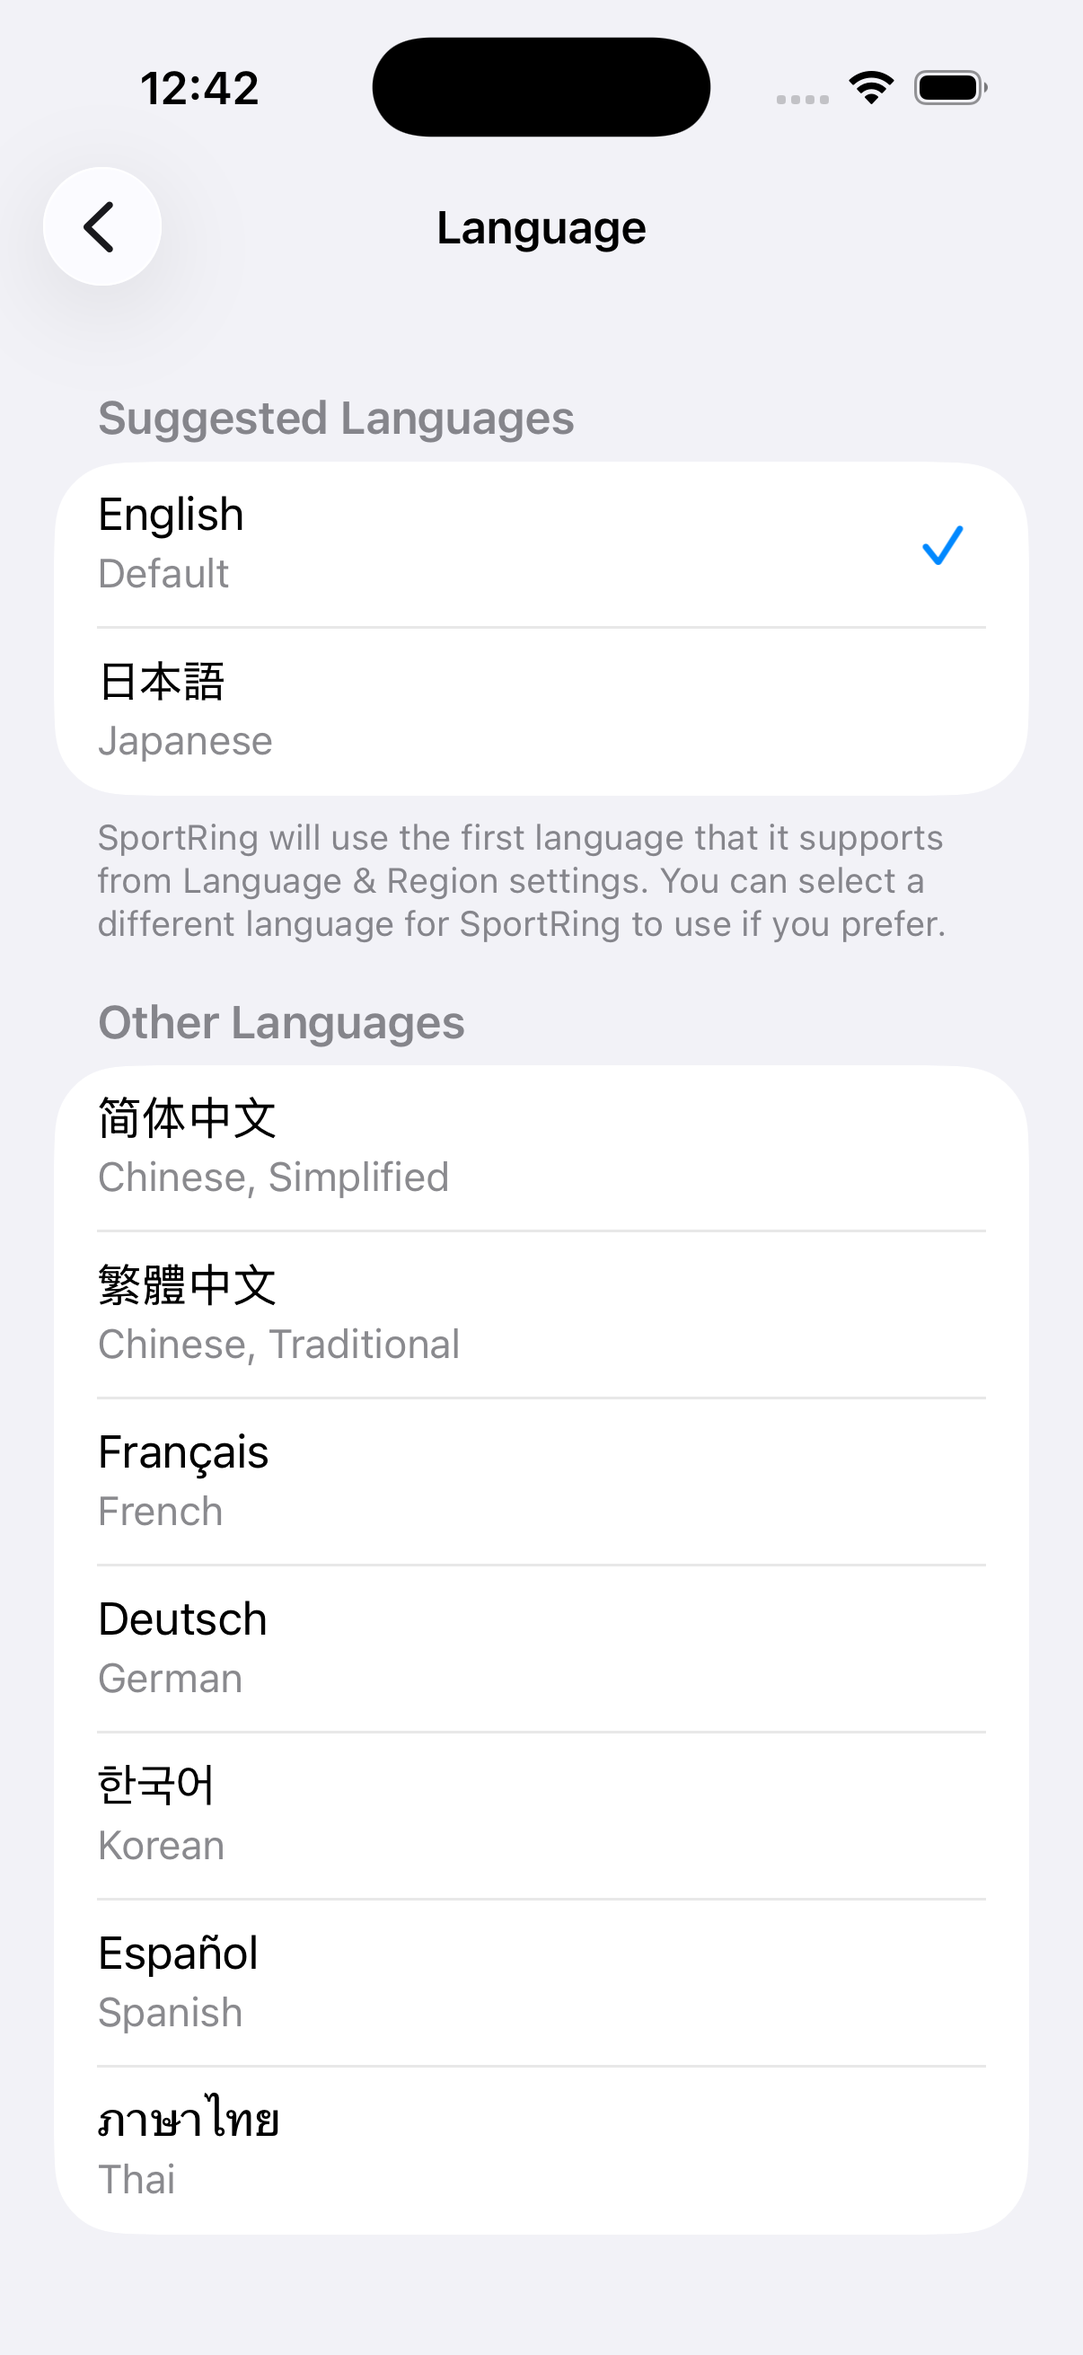
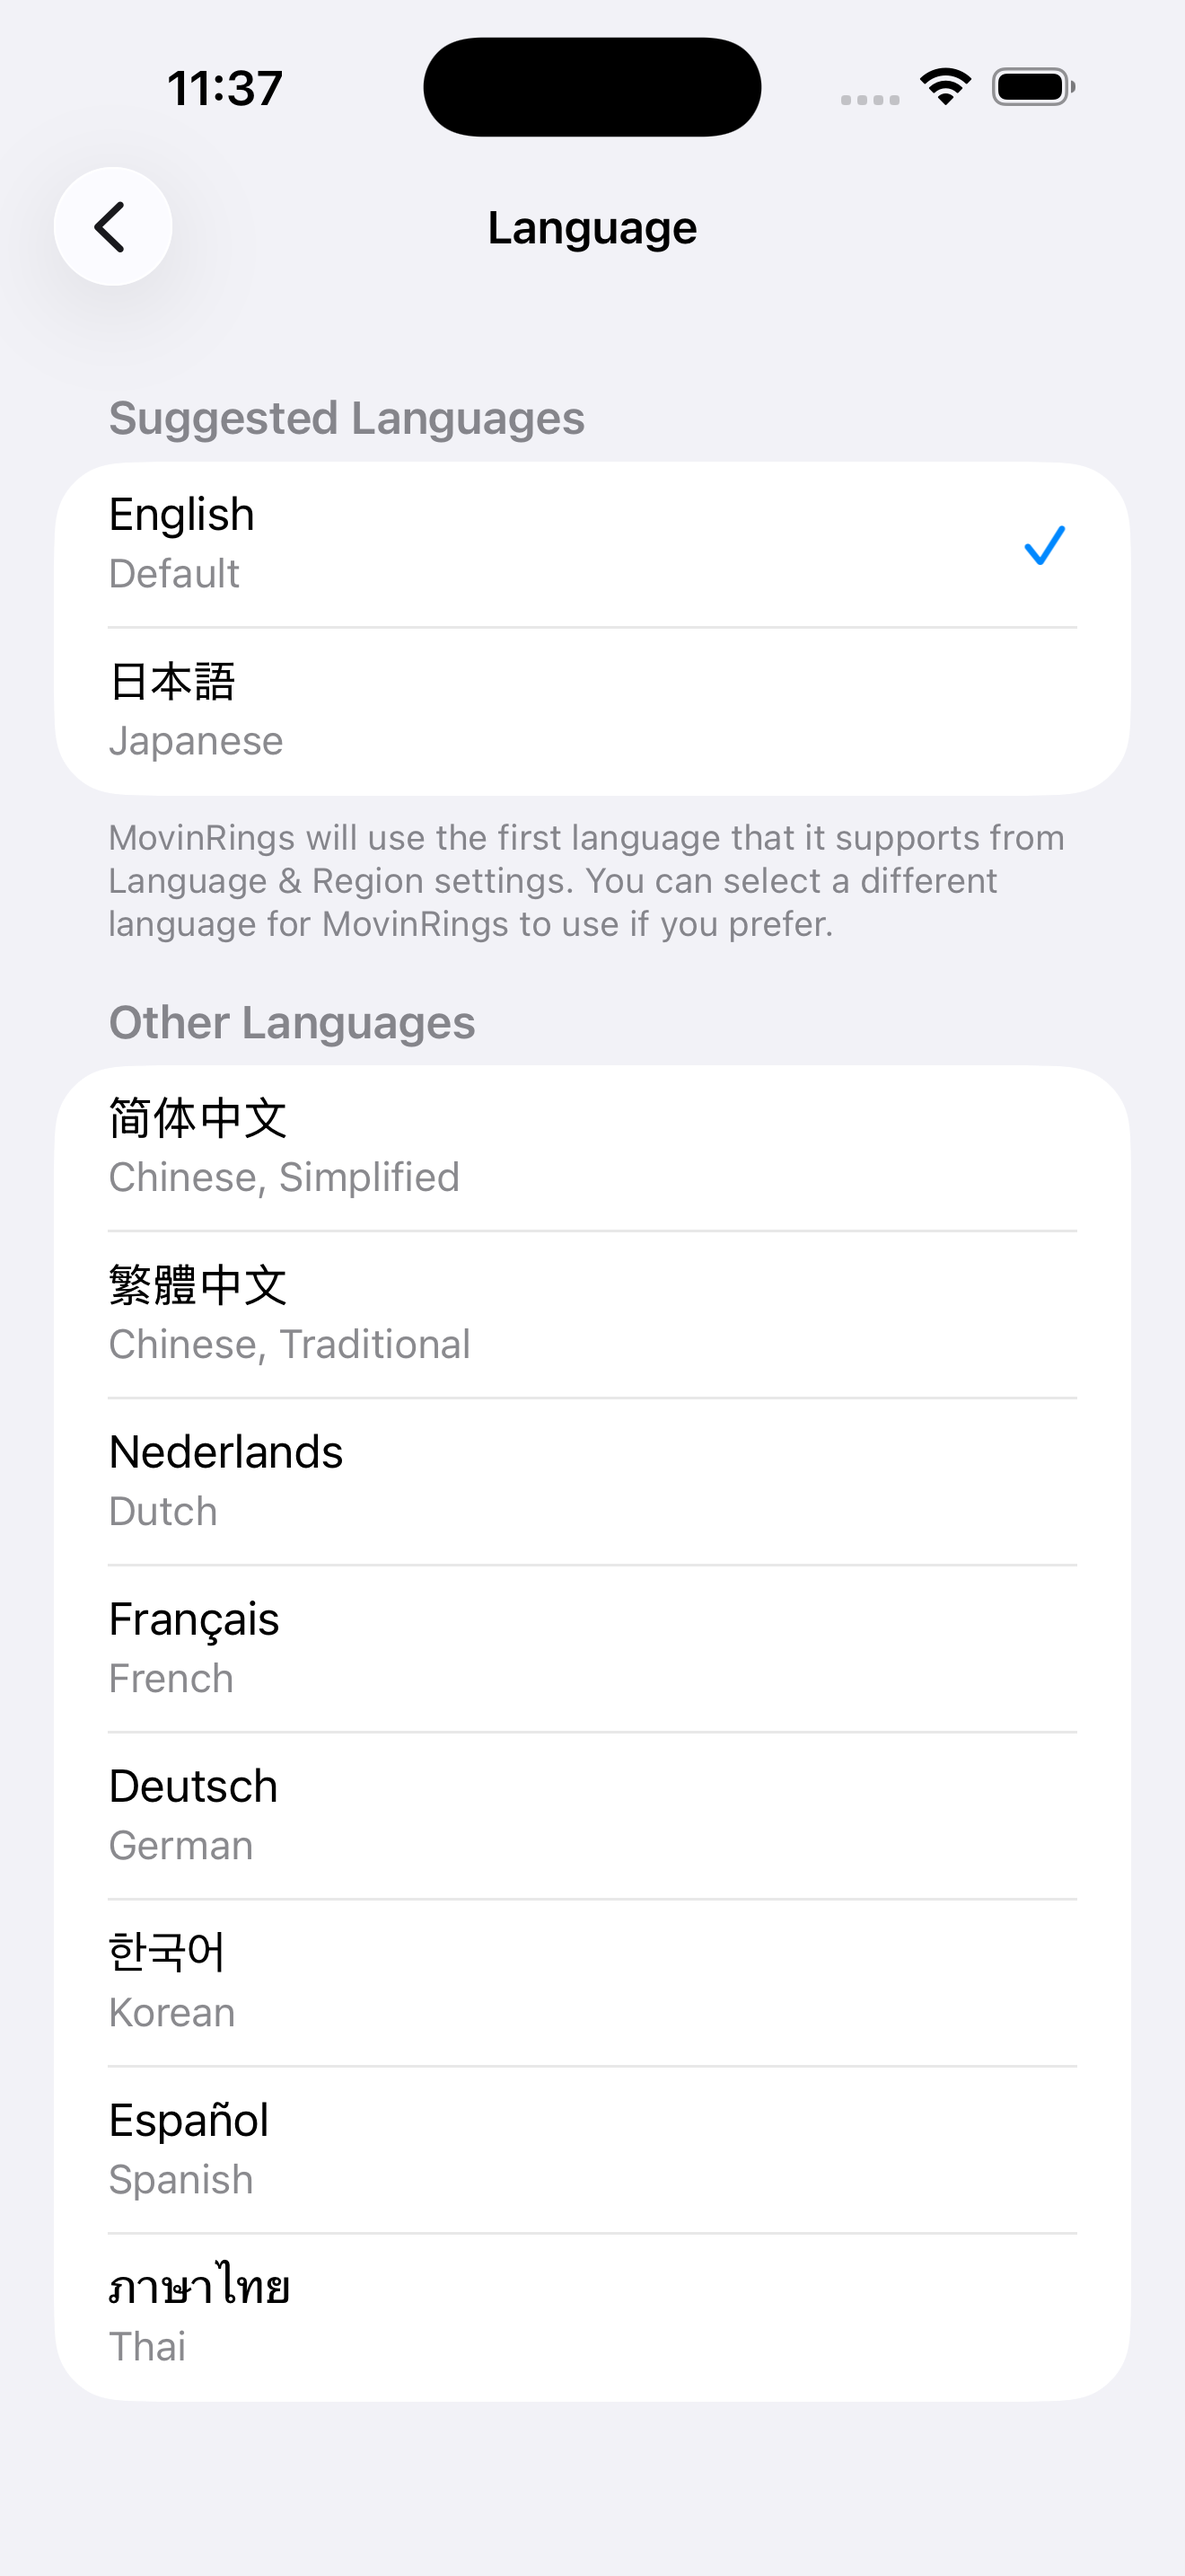
0726

diff --git a/ja/help.html b/ja/help.html
@@ -27,8 +27,8 @@
   A. はい。Watch単体でも動作し、目標距離・単位・リングカラーなどの設定や確認が可能です。</p>
   <p><strong>Q. iPhone と Apple Watch は連携しますか？</strong><br>
   A. はい。データと設定は自動的に同期されます。どちらのデバイスで設定を変更しても、もう一方にすぐ反映されます。</p>
-  <p><strong>Q. 「ウォーク＋ラン」のデータはどのように扱われますか？</strong><br>
-  A.「ウォーク＋ラン」の距離は、iPhone と Apple Watch が1日を通して検出した歩行・走行の推定距離の合計です。個別に記録したワークアウトとは別のデータとして扱われます。</p>
+  <p><strong>Q. 「ウォーキング＋ランニング」のデータはどのように扱われますか？</strong><br>
+  A.「ウォーキング＋ランニング」の距離は、iPhone と Apple Watch が1日を通して検出した歩行・走行の推定距離の合計です。個別に記録したワークアウトとは別のデータとして扱われます。</p>
   <p><strong>Q. データはどこに保存されますか？</strong><br>
   A. すべてのデータは Apple の HealthKit を通じてユーザーのデバイス内に安全に保存され、開発者や第三者に送信されることはありません。</p>
 
@@ -42,7 +42,7 @@
       設定 → MovinRings → ＜優先する言語＞ を選択します。</li>
 
   <li>使用したい言語を選ぶ<br>
-      英語、日本語、フランス語、ドイツ語、スペイン語、中国語（簡体字/繁体字）、韓国語、タイ語が選択できます。</li>
+      英語、日本語、フランス語、ドイツ語、スペイン語、オランダ語、中国語（簡体字/繁体字）、韓国語、タイ語が選択できます。</li>
 
   <li>ウィジェットの言語も変更したい場合<br>
       ウィジェットが言語変更に追従しない場合、Apple Watch を再起動すると反映される場合があります。</li>

diff --git a/help.html b/help.html
@@ -29,6 +29,8 @@ You can check your progress and change your goals, units, or ring color directly
   <p><strong>Q. Does it work with iPhone and Apple Watch?</strong><br>
   A. Yes. Your data and settings sync automatically.
 Any changes made on one device are instantly reflected on the other.</p>
+  <p><strong>Q. How is "Walking + Running" data handled?</strong><br>
+  A. "Walking + Running" distance is the estimated sum of walking and running distances detected by your iPhone and Apple Watch throughout the day. It is treated as separate data from workouts you record individually.</p>
   <p><strong>Q. How to change the app language?</strong><br>
   A. The app and widget language follow your iPhone’s language settings.  
   You can change the display language using the steps below.
@@ -39,7 +41,7 @@ Any changes made on one device are instantly reflected on the other.</p>
       Go to Settings → MovinRings → Preferred Language.</li>
 
   <li>Select your preferred language<br>
-      You can choose from English, Japanese, French, German, Spanish, Chinese (Simplified/Traditional), Korean, and Thai.</li>
+      You can choose from English, Japanese, French, German, Spanish, Dutch, Chinese (Simplified/Traditional), Korean, and Thai.</li>
 
   <li>If you also want the widget language to update<br>
       If the widget does not switch languages, restarting your Apple Watch may apply the change.</li>

diff --git a/index.html b/index.html
@@ -71,19 +71,19 @@
     <!-- ② 3-Second Understanding Section (Quick Features) -->
     <section class="quick-features reveal">
       <div class="q-feature">
-        <h3>Sport-specific<br>rings</h3>
+        <h3>Sport-specific rings</h3>
         <p>Visualize Walking, Running, Cycling, Swimming, and more with beautiful rings</p>
       </div>
       <div class="q-feature">
-        <h3>Watch<br>complications</h3>
+        <h3>Apple Watch complications</h3>
         <p>Check your progress right on your watch face with multiple rich complication types</p>
       </div>
       <div class="q-feature">
-        <h3>iOS<br>Widgets</h3>
+        <h3>iOS widgets</h3>
         <p>Track your daily achievements from your Home and Lock Screen with iOS widgets</p>
       </div>
       <div class="q-feature">
-        <h3>Multi-language<br>Support</h3>
+        <h3>Multilingual support</h3>
         <p>The app automatically matches your system settings for a seamless look</p>
       </div>
     </section>

diff --git a/movinrings/ja/index.html b/movinrings/ja/index.html
@@ -79,7 +79,8 @@
           <li>ワークアウトごとの目標距離やkm/mi単位を一度に設定</li>
           <li>チェックボックスで表示・非表示を切り替え</li>
           <li>右側のハンドルをドラッグして、表示順を簡単に並べ替え</li>
-          <li>表示言語（英語、日本語など8言語）に対応</li>
+          <li>表示言語（英語、日本語など9言語）に対応</li>
+          <li class="no-bullet"><span class="new-badge">NEW</span>オランダ語に対応</li>
         </ul>
       </div>
       <div class="detail-images">

diff --git a/movinrings/index.html b/movinrings/index.html
@@ -79,7 +79,8 @@
           <li>Set target distances and km/mi preferences for each activity</li>
           <li>Toggle activities on or off with simple checkboxes</li>
           <li>Easily reorder activities by dragging the handle on the right</li>
-          <li>Supports 8 display languages (English, Japanese, etc.)</li>
+          <li>Supports 9 display languages (English, Japanese, etc.)</li>
+          <li class="no-bullet"><span class="new-badge">NEW</span>Now supports Dutch</li>
         </ul>
       </div>
       <div class="detail-images">

diff --git a/movinrings/images/generate_multilang_gif.py b/movinrings/images/generate_multilang_gif.py
@@ -1,0 +1,20 @@
+from PIL import Image
+import os
+
+dir_path = '/Users/MasaWada2/Documents/GitHub/waderbros-site/movinrings/images/'
+image_files = [f'Languages-{i}.png' for i in range(1, 10)]
+
+images = []
+for filename in image_files:
+    img = Image.open(os.path.join(dir_path, filename))
+    images.append(img)
+
+output_path = os.path.join(dir_path, 'multi-language.gif')
+images[0].save(
+    output_path,
+    save_all=True,
+    append_images=images[1:],
+    duration=1600,  # 既存設定と同じ1.6秒
+    loop=0         # ループ無制限
+)
+print(f"GIF saved to {output_path}")
